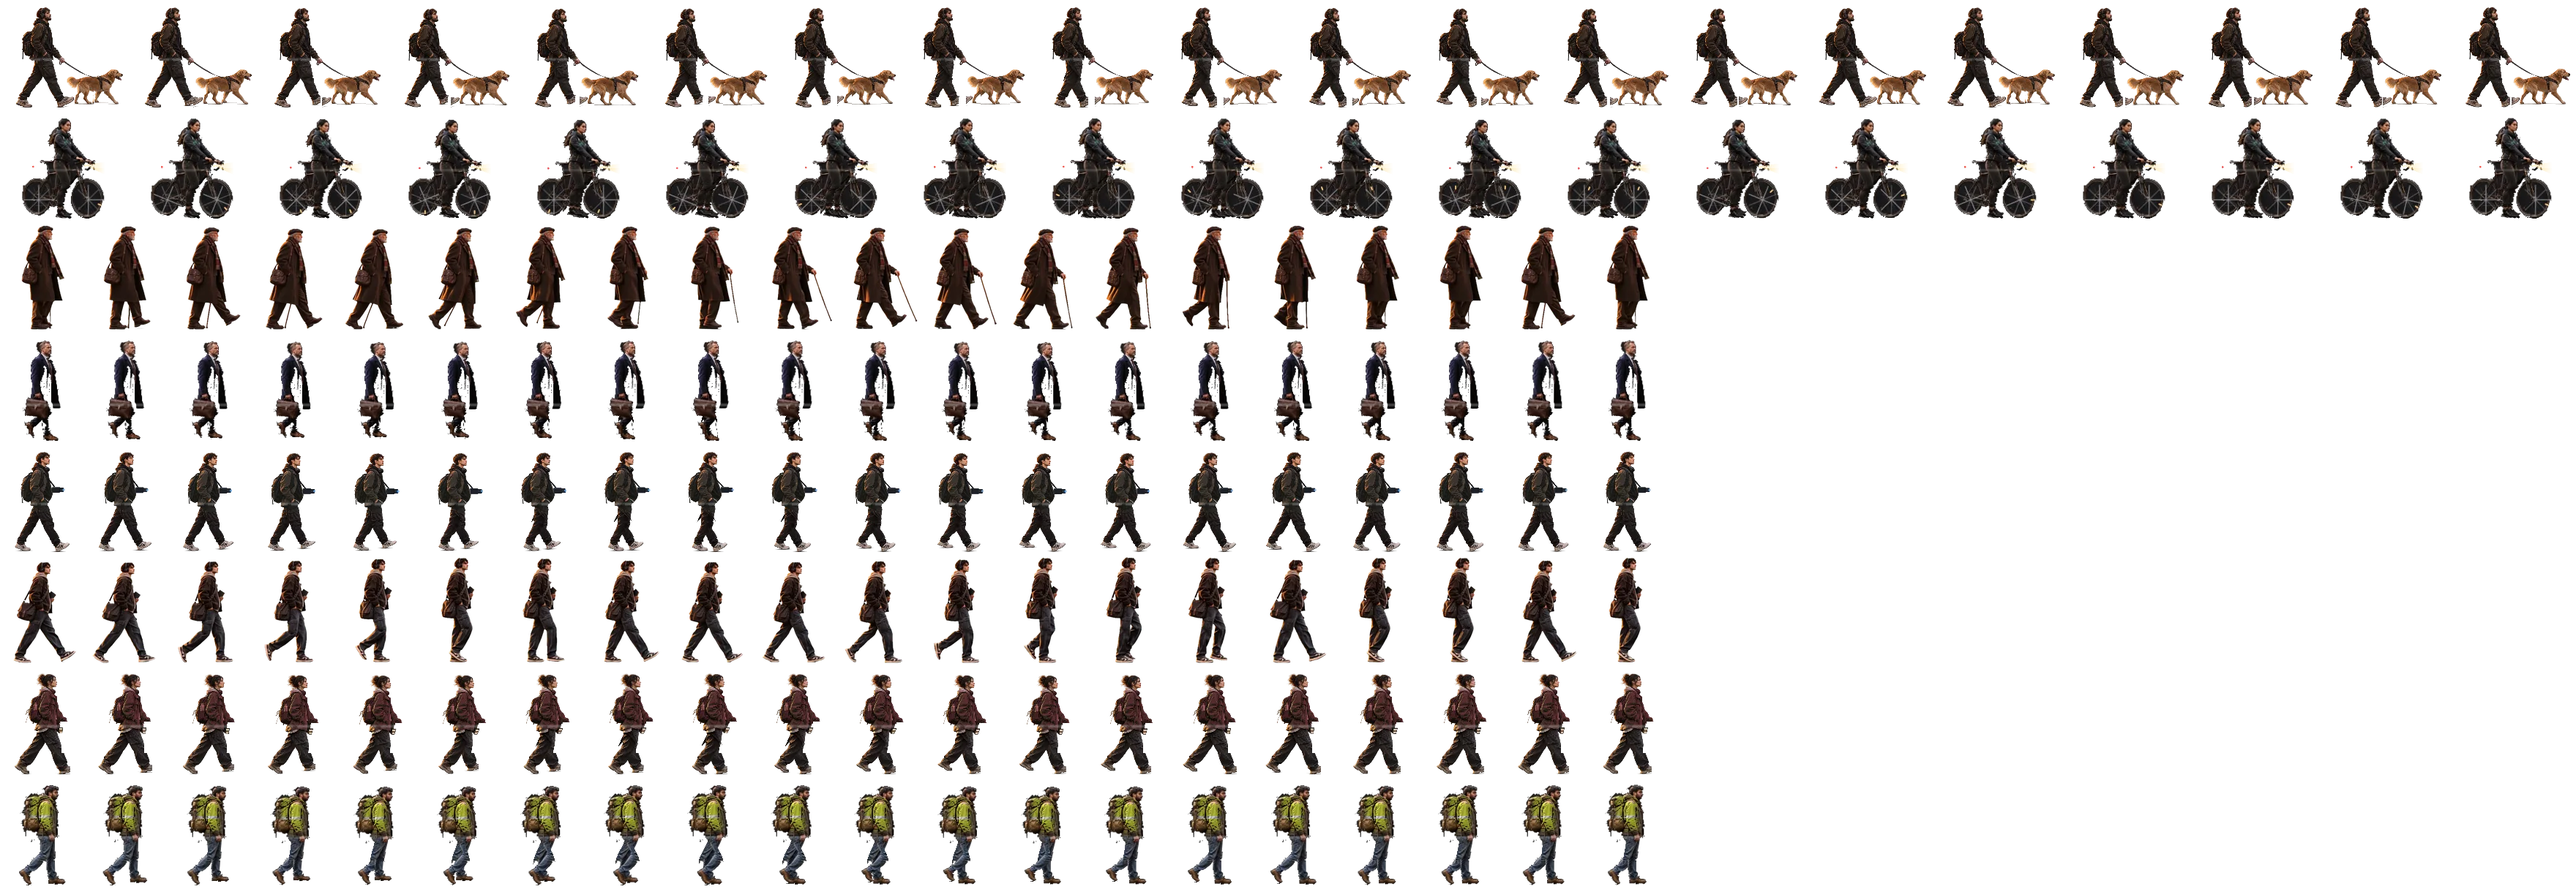
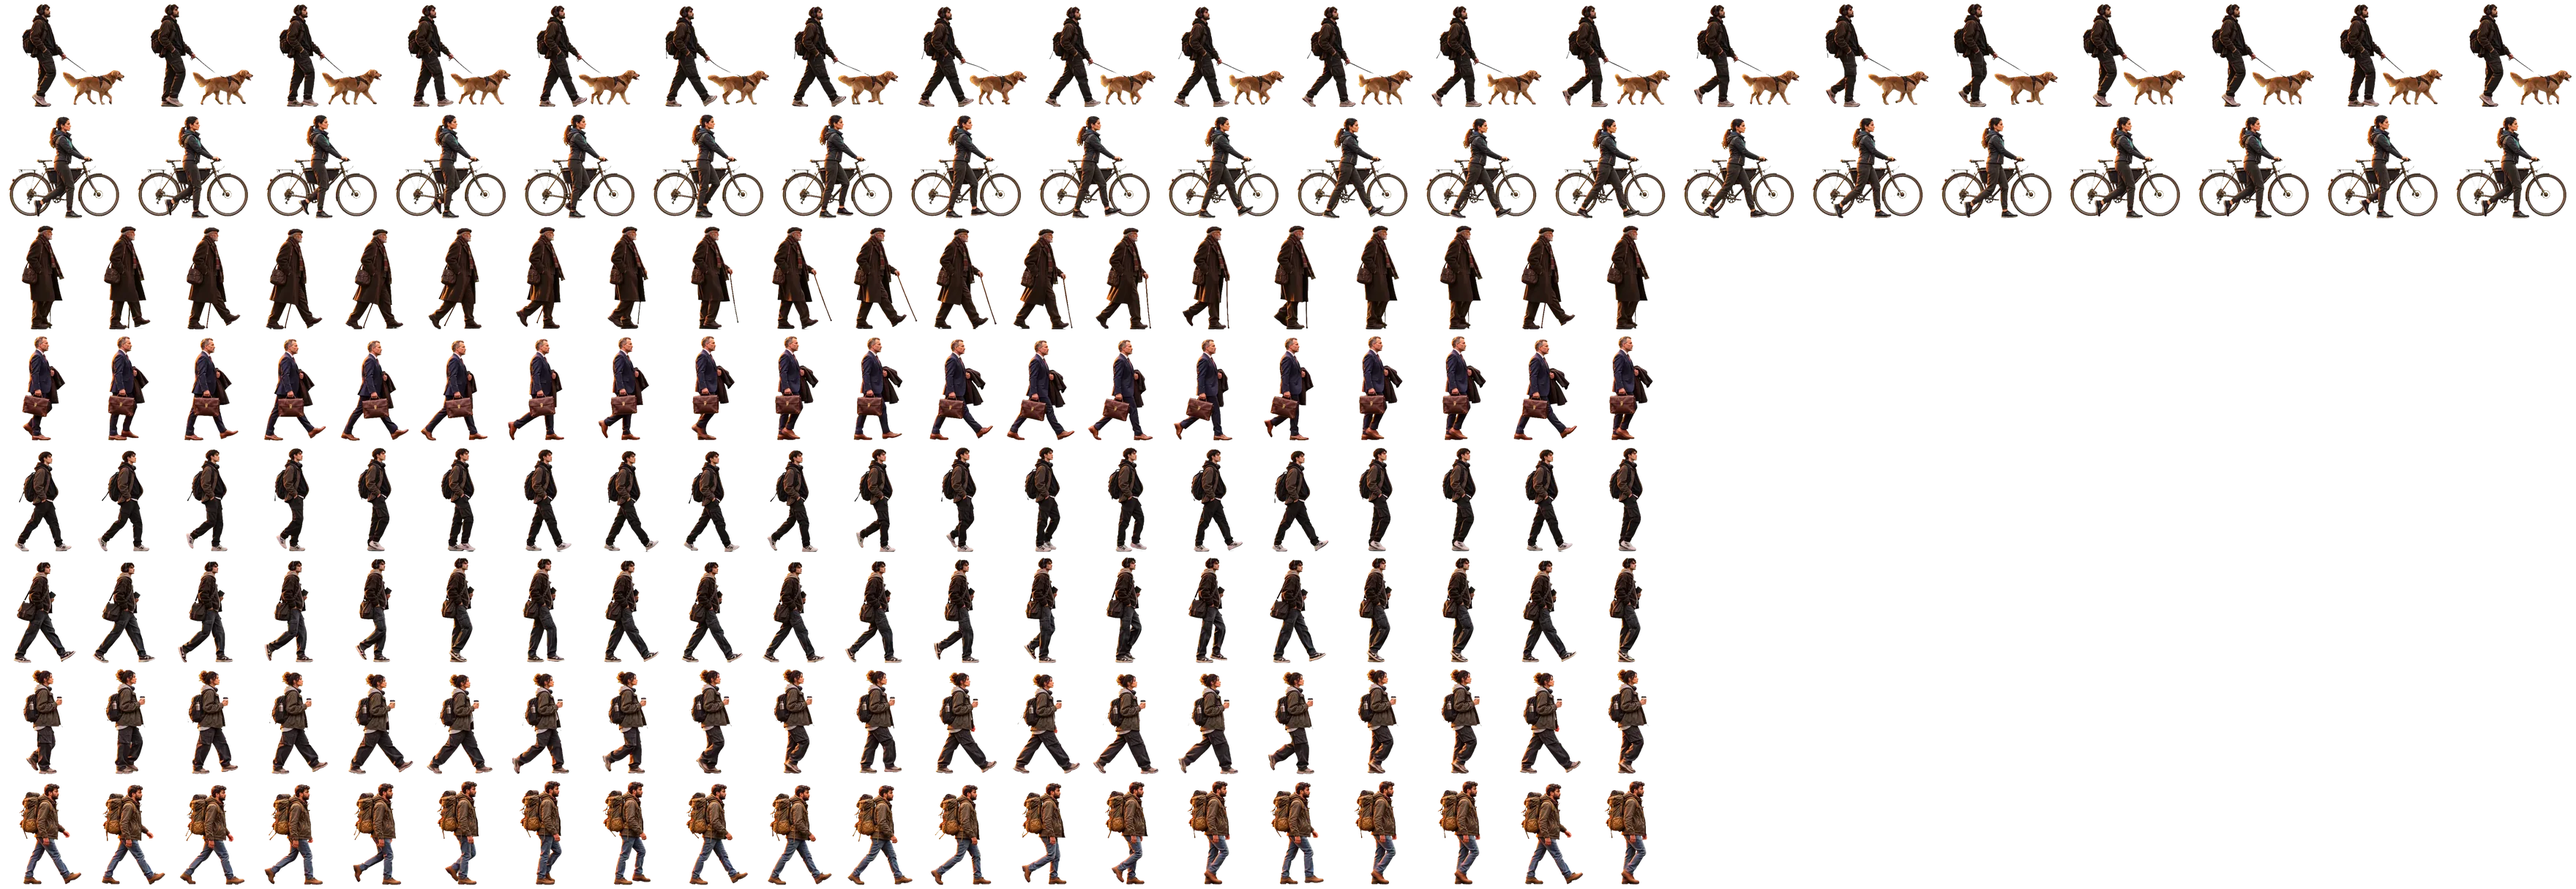
feat(street): all sixteen people walk from film; no cartoon flash on load
- Ten background walkers now come from Kling clips like the near six;
  the rigged single-photo walk is gone from the atlases.
- The scene skips walkers until their atlas decodes, so the vector
  fallback figures never flash on first load; e2e open() waits for it.
- Narrow or zoomed streets are no longer forced to hold fourteen people.
- street-walk-strip gains --person for clips where a prop is taller
  than the figure.

Changed region(s): [[0.0, 0.0, 1.0, 0.25], [0.0, 0.75, 0.6562, 1.0], [0.0, 0.375, 0.6562, 0.625]]

diff --git a/src/scripts/street/crowd-atlas.ts b/src/scripts/street/crowd-atlas.ts
@@ -51,6 +51,7 @@ export const CROWD_SPRITES: Record<string, SpriteStripEntry> = {
     h: 152,
     frames: 20,
     soleY: 146,
+    stride: 0.476,
     headTopRatio: 0.066,
   },
   companion: {
@@ -60,6 +61,7 @@ export const CROWD_SPRITES: Record<string, SpriteStripEntry> = {
     h: 152,
     frames: 20,
     soleY: 146,
+    stride: 0.922,
     headTopRatio: 0.066,
   },
   courier: {
@@ -79,6 +81,7 @@ export const CROWD_SPRITES: Record<string, SpriteStripEntry> = {
     h: 152,
     frames: 20,
     soleY: 146,
+    stride: 1.055,
     headTopRatio: 0.066,
   },
   kernel: {
@@ -98,6 +101,7 @@ export const CROWD_SPRITES: Record<string, SpriteStripEntry> = {
     h: 152,
     frames: 20,
     soleY: 146,
+    stride: 0.809,
     headTopRatio: 0.066,
   },
   'dog-walker': {
@@ -117,6 +121,7 @@ export const CROWD_SPRITES: Record<string, SpriteStripEntry> = {
     h: 152,
     frames: 20,
     soleY: 146,
+    stride: 0.332,
     headTopRatio: 0.066,
   },
   cyclist: {
@@ -126,6 +131,7 @@ export const CROWD_SPRITES: Record<string, SpriteStripEntry> = {
     h: 152,
     frames: 20,
     soleY: 146,
+    stride: 0.409,
     headTopRatio: 0.066,
   },
   grandfather: {
@@ -145,6 +151,7 @@ export const CROWD_SPRITES: Record<string, SpriteStripEntry> = {
     h: 152,
     frames: 20,
     soleY: 146,
+    stride: 0.98,
     headTopRatio: 0.066,
   },
   photographer: {
@@ -154,6 +161,7 @@ export const CROWD_SPRITES: Record<string, SpriteStripEntry> = {
     h: 152,
     frames: 20,
     soleY: 146,
+    stride: 0.715,
     headTopRatio: 0.066,
   },
   student: {
@@ -173,6 +181,7 @@ export const CROWD_SPRITES: Record<string, SpriteStripEntry> = {
     h: 152,
     frames: 20,
     soleY: 146,
+    stride: 0.96,
     headTopRatio: 0.066,
   },
   builder: {
@@ -182,6 +191,7 @@ export const CROWD_SPRITES: Record<string, SpriteStripEntry> = {
     h: 152,
     frames: 20,
     soleY: 146,
+    stride: 0.908,
     headTopRatio: 0.066,
   },
 };

diff --git a/src/scripts/street/scene.ts b/src/scripts/street/scene.ts
@@ -375,7 +375,9 @@ export function createStreet(options: StreetOptions): Street {
     const full = Math.min(16, Math.max(8, Math.round(width / (ph * 0.16))));
     const scaled = Math.round(full * budget * qualityFactor);
     if (width < 500) return Math.min(10, Math.max(5, scaled));
-    return Math.max(14, scaled);
+    // A wide street stays busy; a narrow or zoomed-in one is not forced to hold
+    // fourteen people, which packed them shoulder to shoulder.
+    return Math.max(width >= 1000 ? 14 : 8, scaled);
   }
 
   function laneTarget(index: number): number {
@@ -957,6 +959,10 @@ export function createStreet(options: StreetOptions): Street {
         const lane = LANES[walker.lane]!;
         if (lane.front !== (layer === 1)) continue;
         if (walker.x < -walker.half * 2 || walker.x > width + walker.half * 2) continue;
+        // A drawn figure over a photograph reads as a cartoon: until someone's
+        // photographs have decoded, they are simply not on the street yet.
+        const atlas = CROWD_SPRITES[walker.look.id]?.atlas;
+        if (atlas && !sheets[atlas]) continue;
         const ground = groundOf(lane) + walker.dy;
         const u = unit(lane) * walker.look.h;
         const lit = walker.pose.lit;

diff --git a/tests/e2e/street.spec.ts b/tests/e2e/street.spec.ts
@@ -63,6 +63,10 @@ async function open(page: Page, path = '/about', seed = '7') {
   const stage = page.locator('[data-stage]');
   await stage.evaluate((el) => el.scrollIntoView({ block: 'center', behavior: 'instant' }));
   await expect(page.locator('[data-street]')).toHaveAttribute('data-ready', '');
+  // People are drawn only from their photographs: wait until those have decoded.
+  await expect
+    .poll(() => page.evaluate(() => window.__street!.stats().atlases), { timeout: 15_000 })
+    .toMatchObject({ core: true, city: true });
   return { stage, errors };
 }
 

diff --git a/DESIGN.md b/DESIGN.md
@@ -197,13 +197,12 @@ doesn't."
   Five lanes; two canvases sandwich the figure, so the near lanes pass in
   front of him and the far ones behind. Nobody is on the street twice. Seven
   carry something from a project.
-- **Walking is filmed where it can be.** Five of the six near people walk from
-  film: a cut-out animated on a green background, cut into sixteen frames by
+- **Walking is filmed.** All sixteen people walk from film: a clean side-on
+  cut-out animated on a green background, cut into sixteen frames by
   `scripts/street-walk-strip.mjs` (`src/assets/media/street/crowd-walk`). The
   script measures the ground under their planted feet, and the scene advances
-  their frames by that distance, so feet do not slide. The rest are still
-  rigged from one photograph each; a character gets film only from a clean,
-  high-resolution, side-on cut-out.
+  their frames by that distance, so feet do not slide. A new character gets a
+  cut-out and a clip first; there is no rigged fallback in the atlases.
 - **Text lights its drawing, again.** The seven labels under the scene are
   links to the case studies. Pointing at or focusing one brings its figure on
   and lights it in the project's colour; pointing at the figure lights the
